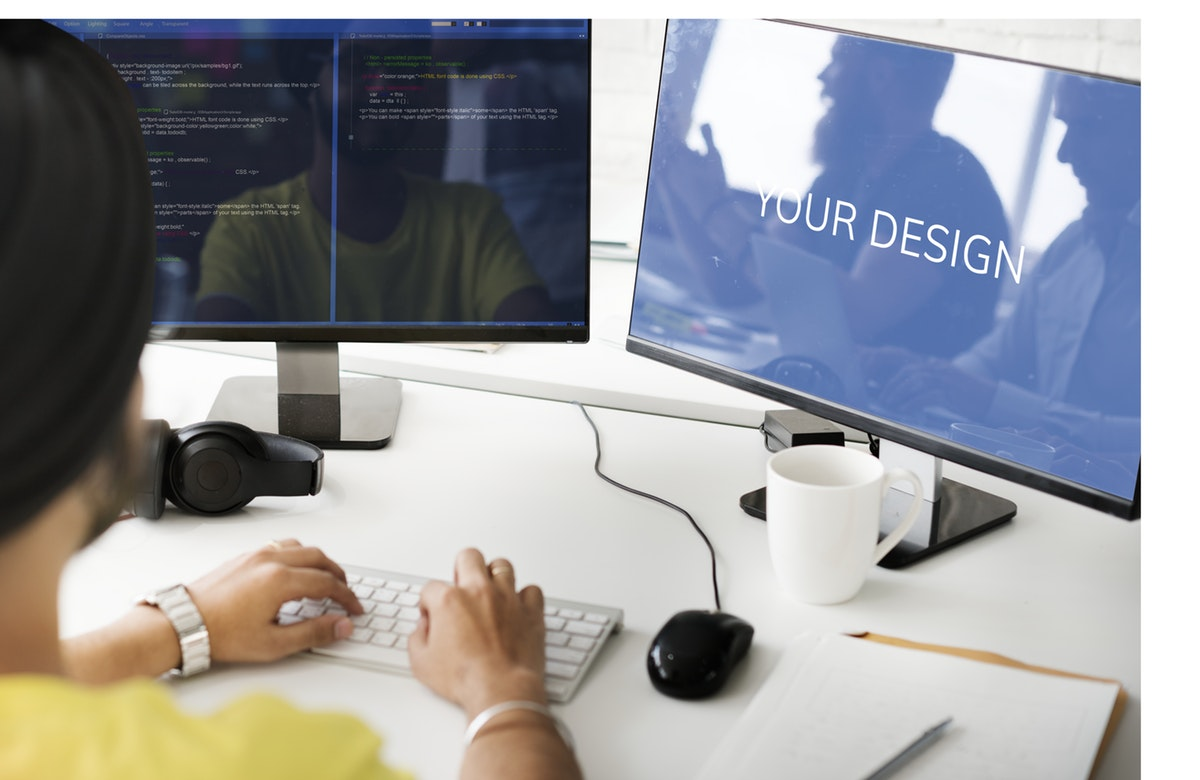
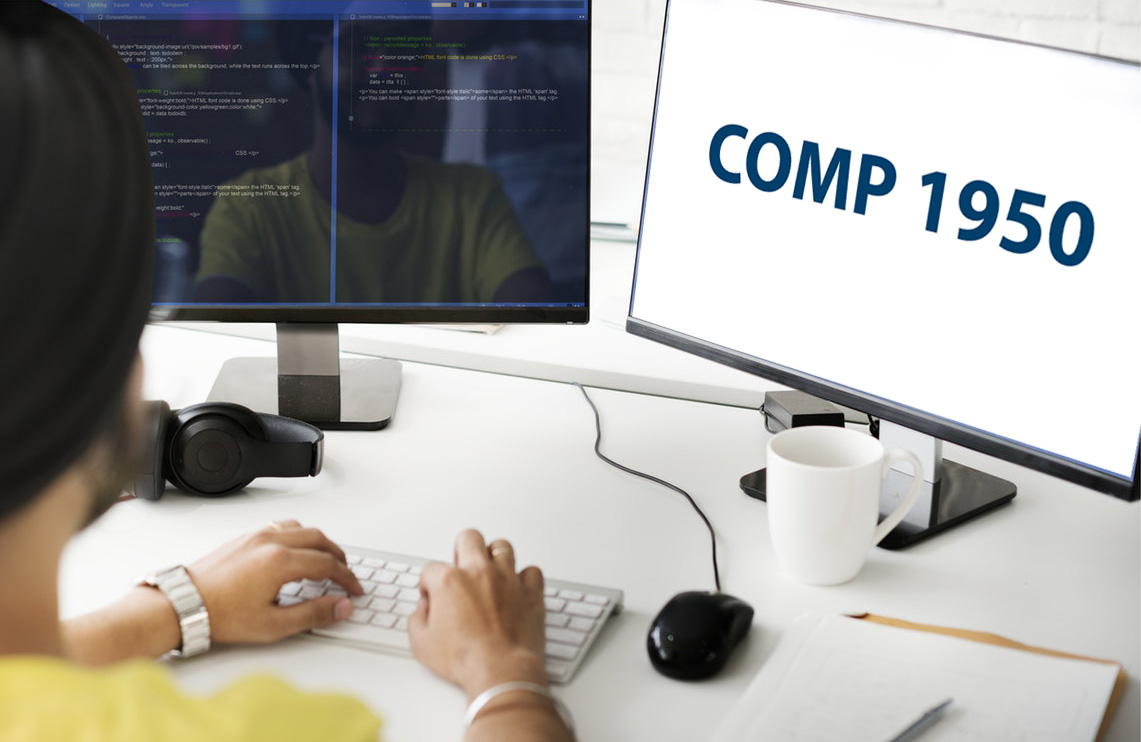
Updated slideshow photo and added linked buttons

diff --git a/index.html b/index.html
@@ -4,7 +4,7 @@
 		<meta charset="utf-8" />
 		<meta name="viewport" content="width=device-width, initial-scale=1.0">
     	<meta http-equiv="X-UA-Compatible" content="ie=edge">
-		<link href="https://fonts.googleapis.com/css?family=Open+Sans:400,400i,700|Rubik+Mono+One&display=swap" rel="stylesheet">
+		<link href="https://fonts.googleapis.com/css?family=Open+Sans:400,400i,700|Russo+One&display=swap" rel="stylesheet">
 		<link rel="stylesheet" href="styles/styles.css">
 		<title>COMP 1950 Website Design and Development</title>
 	</head>
@@ -35,8 +35,10 @@
 
 							<!-- Full-width images with number and caption text -->
 							<div class="mySlides fade">
-							<img src="images/student1.jpg" style="width:100%">
-							<div class="text">Welcome to <h1>Web Development and Design 2</h1></div>
+							<img src="images/student1.jpg" alt="Comp 1950 student banner" style="width:100%">
+							<div class="text"><h1>Web Development and Design 2</h1>
+							<a href="about.html">Prospective Students</a>
+							<a href="schedule.html">Current Students</a></div>
 							</div>
 					  
 							<div class="mySlides fade">
@@ -45,8 +47,8 @@
 							</div>
 					  
 							<div class="mySlides fade">
-							<img src="images/briar-rose.jpg" style="width:100%">
-							<div class="text">Caption Text</div>
+							<img src="images/student3.jpg" style="width:100%">
+							<div class="text"><h1>Learn to build responsive websites</h1></div>
 							</div>
 					
 					  
@@ -66,11 +68,6 @@
 					
 						</div>
 
-
-
-
-                    <h1>Web Design and Development 2</h1>
-                    <img src="" alt="Students in classroom">
 					</section>
                 
                 <section class="section01">

diff --git a/scripts/slideshow.js b/scripts/slideshow.js
@@ -28,3 +28,19 @@ function showSlides(n) {
   slides[slideIndex-1].style.display = "block"; 
   dots[slideIndex-1].className += " active";
 }
+
+// // Automatic Slideshow
+// var slideIndex = 0;
+// showSlides();
+
+// function showSlides() {
+//   var i;
+//   var slides = document.getElementsByClassName("mySlides");
+//   for (i = 0; i < slides.length; i++) {
+//     slides[i].style.display = "none"; 
+//   }
+//   slideIndex++;
+//   if (slideIndex > slides.length) {slideIndex = 1} 
+//   slides[slideIndex-1].style.display = "block"; 
+//   setTimeout(showSlides, 8000); // Change image every 8 seconds
+// }

diff --git a/styles/styles.css b/styles/styles.css
@@ -4,7 +4,9 @@ body {
   body h1,
   body h2,
   body h3 {
-    font-family: 'Rubik Mono One', sans-serif;
+    font-family: 'Russo One', sans-serif;
+    text-decoration: none; }
+  body a {
     text-decoration: none; }
 
 * {
@@ -50,9 +52,16 @@ body {
   font-size: 2em;
   padding: 8px 12px;
   position: absolute;
-  bottom: 30%;
+  bottom: 40%;
   width: 100%;
   text-align: center; }
+  .text h1 {
+    text-shadow: white 1px 0 10px; }
+  .text a {
+    background-color: #003f6b;
+    color: white;
+    padding: 10px 30px;
+    font-size: 0.8em; }
 
 /* Number text (1/3 etc) */
 .numbertext {

diff --git a/scss/_slideshow.scss b/scss/_slideshow.scss
@@ -47,9 +47,21 @@
   font-size: 2em;
   padding: 8px 12px;
   position: absolute;
-  bottom: 30%;
+  bottom: 40%;
   width: 100%;
   text-align: center;
+
+  h1 {
+    text-shadow: rgb(255, 255, 255) 1px 0 10px;
+
+  }
+
+  a {
+    background-color: #003f6b;
+    color: white;
+    padding: 10px 30px;
+    font-size: 0.8em;
+  }
 }
 
 /* Number text (1/3 etc) */

diff --git a/scss/_body.scss b/scss/_body.scss
@@ -4,12 +4,16 @@ body {
     background-color: white;
     font-family: 'Open Sans', sans-serif;
 
-h1,
-h2,
-h3 {
-	font-family: 'Rubik Mono One', sans-serif;
-	text-decoration: none;
-}
+    h1,
+    h2,
+    h3 {
+	    font-family: 'Russo One', sans-serif;
+	    text-decoration: none;
+    }
+
+    a {
+        text-decoration: none;
+    }
     
 }
 
